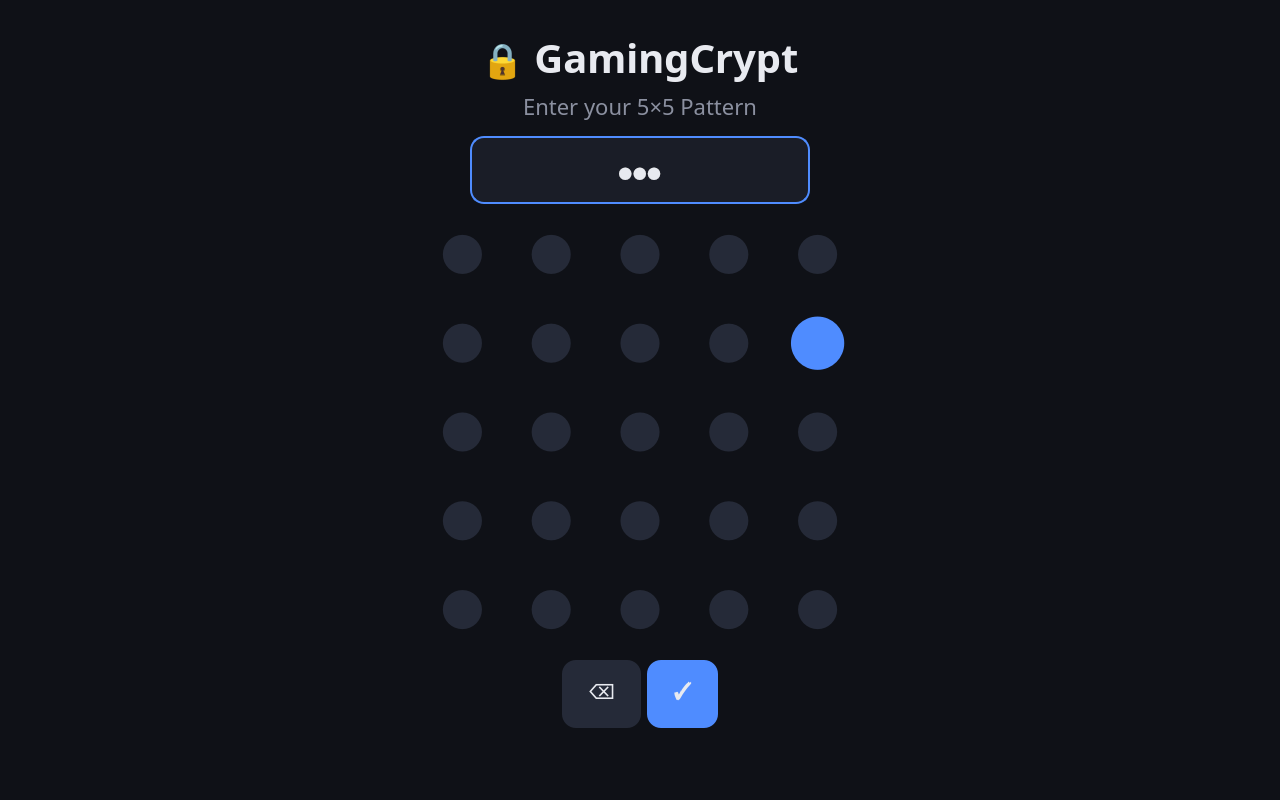
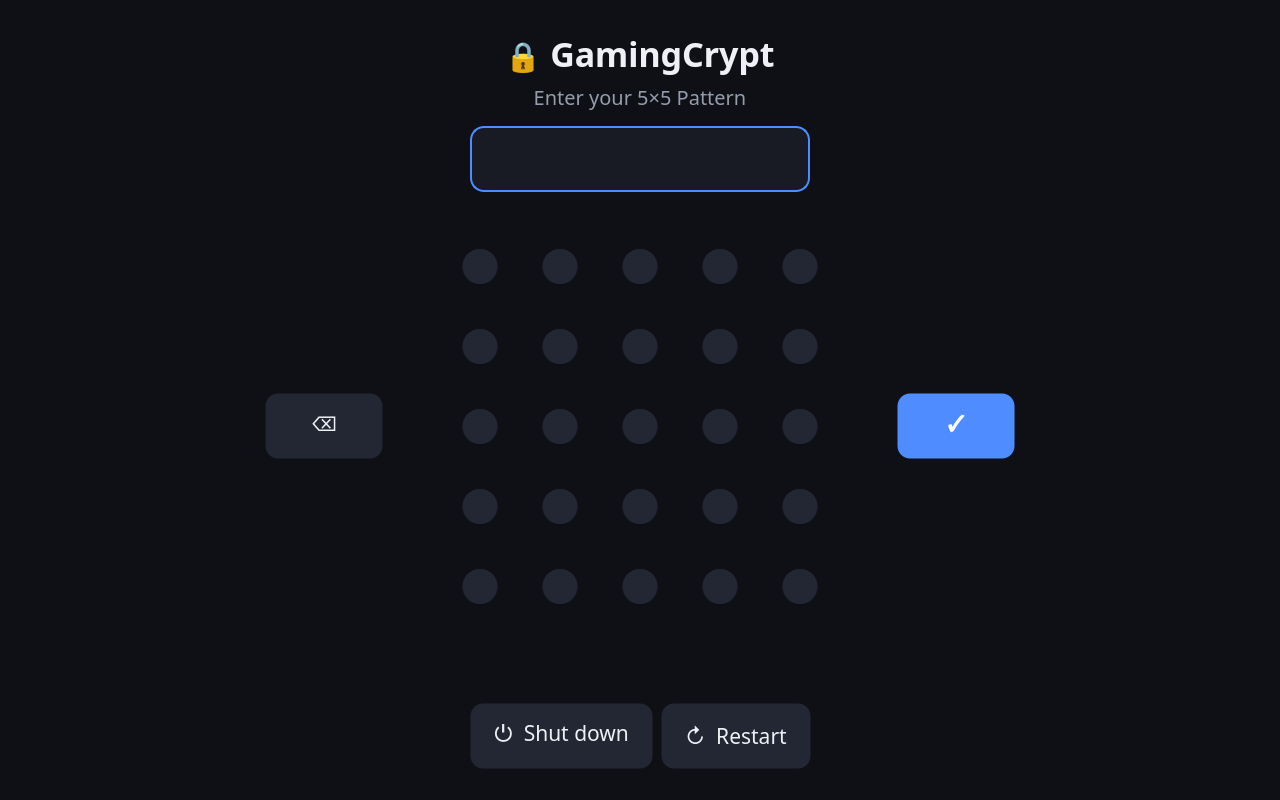
README: new screenshots of every page (dark and light theme, made with docs/screenshots.py) and the features as they are now (movies, shows, emulators, themes, controller navigation)

diff --git a/docs/screenshots.py b/docs/screenshots.py
@@ -1,0 +1,185 @@
+"""Renders the README screenshots (offscreen, with sample games, movies and shows).
+
+    .venv/bin/python docs/screenshots.py          # -> docs/screenshots/*.png
+"""
+
+from __future__ import annotations
+
+import copy
+import os
+import sys
+import tempfile
+import time
+from pathlib import Path
+
+os.environ["QT_QPA_PLATFORM"] = "offscreen"
+ROOT = Path(__file__).resolve().parent.parent
+sys.path.insert(0, str(ROOT))
+
+from PySide6.QtCore import QElapsedTimer  # noqa: E402
+from PySide6.QtWidgets import QApplication  # noqa: E402
+
+app = QApplication(sys.argv)
+
+from gamingcrypt.app import MainWindow  # noqa: E402
+from gamingcrypt.config import DEFAULTS  # noqa: E402
+from gamingcrypt.movies import library as movies  # noqa: E402
+from gamingcrypt.movies.library import MovieInfo  # noqa: E402
+from gamingcrypt.steam.models import SteamGame  # noqa: E402
+from gamingcrypt.ui import theme  # noqa: E402
+from gamingcrypt.ui.games_tab import GamesTab  # noqa: E402
+from gamingcrypt.ui.movies_tab import MoviesTab  # noqa: E402
+from gamingcrypt.ui.shows_tab import ShowsTab  # noqa: E402
+from tests.fakes import FakeService  # noqa: E402
+
+OUT = ROOT / "docs" / "screenshots"
+SIZE = (1280, 800)  # the handheld's screen
+
+MOVIES = [("Starfall", 2019, 128, "FSK 12", ["Science fiction"]), ("The Long Road", 2004, 112, "FSK 6", ["Drama"]),
+          ("Night Harbour", 2016, 97, "FSK 16", ["Thriller"]), ("Paper Moons", 2021, 104, "FSK 0", ["Family"]),
+          ("Iron Valley", 1998, 133, "FSK 16", ["Western"]), ("Quiet Signals", 2012, 121, "FSK 12", ["Mystery"]),
+          ("Blue Atlas", 2023, 141, "FSK 12", ["Adventure"]), ("Glass Garden", 2009, 99, "FSK 6", ["Comedy"])]
+GAMES = [SteamGame(1, "Hollow Peaks", installed=True, playtime_minutes=2700, last_played=1759600000),
+         SteamGame(2, "Neon Drift", installed=True, playtime_minutes=480, size_on_disk=8_000_000_000),
+         SteamGame(3, "Stellar Forge", installed=True, playtime_minutes=90),
+         SteamGame(4, "Ember Knights", installed=True, playtime_minutes=1600),
+         SteamGame(5, "Tidal Echoes", playtime_minutes=30), SteamGame(6, "Moss Kingdom", playtime_minutes=0)]
+
+
+class NoLookup:
+    def find(self, *a):
+        return None
+
+
+def sample_drive(base: Path) -> tuple[Path, Path, Path]:
+    plot = ("A crew of misfits sets out on a journey that changes everything they believed about home, "
+            "friendship and the stars above.")
+    for i, (title, year, minutes, fsk, genres) in enumerate(MOVIES):
+        path = base / "Movies" / f"{title} ({year}).mkv"
+        path.parent.mkdir(parents=True, exist_ok=True)
+        path.write_bytes(b"v")
+        movies.write_info(path.with_suffix(".nfo"), MovieInfo(
+            title=title, year=year, runtime=minutes, fsk=fsk, genres=genres, plot=plot, looked_up=1, wikidata="Q1",
+            directors=["Mara Lindqvist"], actors=[("Jonas Weber", "Captain Reyes"), ("Ana Duarte", "Lena")],
+            watched=i in (1, 4), playcount=int(i in (1, 4)), position=2400 if i == 2 else 0, total=5800))
+    for season in (1, 2):
+        for number in range(1, 7):
+            seen = season == 1 and number < 4
+            path = base / "Shows" / "Harbor Lights (2018)" / f"Season {season}" / f"Harbor Lights S0{season}E0{number}.mkv"
+            path.parent.mkdir(parents=True, exist_ok=True)
+            path.write_bytes(b"v")
+            movies.write_info(path.with_suffix(".nfo"), MovieInfo(
+                title=["Arrival", "The Keeper", "Low Tide", "Signals", "Undertow", "Homecoming"][number - 1],
+                runtime=48, aired=f"2018-0{season + 2}-1{number}", looked_up=1, watched=seen, playcount=int(seen),
+                plot="The lighthouse keeper finds a message that should not exist.", position=900 if
+                (season, number) == (1, 4) else 0, total=2880, last_played=5), "episodedetails")
+    movies.write_info(base / "Shows" / "Harbor Lights (2018)" / "tvshow.nfo", MovieInfo(
+        title="Harbor Lights", year=2018, end_year=2022, genres=["Drama", "Mystery"], tvmaze="1", looked_up=1,
+        plot="In a small coastal town, a lighthouse keeper uncovers secrets that bind its families together.",
+        actors=[("Ida Novak", "Keeper"), ("Tom Berg", "Sheriff")]), "tvshow")
+    for i in range(1, 4):
+        path = base / "Shows" / f"Night.Shift.S01E0{i}.mkv"
+        path.write_bytes(b"v")
+    movies.write_info(base / "Shows" / "Night Shift.tvshow.nfo", MovieInfo(title="Night Shift", year=2021, tvmaze="2",
+                                                                          genres=["Comedy"], looked_up=1), "tvshow")
+    emu = base / "Emulation"
+    for system, name in (("snes", "Super Space Quest.sfc"), ("gba", "Pocket Racer.gba"), ("psx", "Shadow Run.chd")):
+        (emu / "roms" / system).mkdir(parents=True, exist_ok=True)
+        (emu / "roms" / system / name).write_bytes(b"x")
+    return base / "Movies", base / "Shows", emu
+
+
+def pump(ms: int) -> None:
+    timer = QElapsedTimer()
+    timer.start()
+    while timer.elapsed() < ms:
+        app.processEvents()
+        time.sleep(0.005)
+
+
+def main() -> None:
+    OUT.mkdir(parents=True, exist_ok=True)
+    movies_root, shows_root, emu = sample_drive(Path(tempfile.mkdtemp()))
+    service = FakeService(games=GAMES)
+    pages = {}
+
+    def factory(cfg):
+        pages["Games"] = GamesTab(service, library_settings=cfg["libraries"], emulation_root=str(emu))
+        pages["Movies"] = MoviesTab(movies_root, lookup=NoLookup())
+        pages["Shows"] = ShowsTab(shows_root, lookup=NoLookup())
+        return dict(pages)
+
+    for name in ("dark", "light"):
+        theme.apply(name, app)
+        window = MainWindow(copy.deepcopy(DEFAULTS), lambda c: None, page_factory=factory)
+        window.windowed, window.update_check_enabled, window.welcome_enabled = True, False, False
+        window.resize(*SIZE)
+        window.show()
+        window.show_shell()
+        pump(800)
+        shell = window.shell
+        games = pages["Games"]
+        games.games.update({g.appid: g for g in GAMES})
+
+        def shot(file: str) -> None:
+            pump(400)
+            window.grab().save(str(OUT / f"{file}.png"))
+
+        suffix = "" if name == "dark" else "-light"
+        shot(f"games{suffix}")
+        if name == "light":
+            shell.show_tab("Settings")
+            shot("settings-light")
+            window.close()
+            break
+        games.open_steam()
+        shot("steam")
+        games.back()
+        games.open_game(1)
+        shot("detail")
+        games.back()
+        shell.show_tab("Movies")
+        shot("movies")
+        movie_tab = pages["Movies"]
+        movie_tab.open_movie(next(m for m in movie_tab.items if m.title == "Night Harbour"))
+        shot("movie")
+        movie_tab.back()
+        shell.show_tab("Shows")
+        shot("shows")
+        show_tab = pages["Shows"]
+        show_tab.open_show(next(s for s in show_tab.items if s.title == "Harbor Lights"))
+        shot("show")
+        show_tab.currentWidget().scroll.verticalScrollBar().setValue(520)
+        shot("episodes")
+        show_tab.back()
+        shell.show_tab("Settings")
+        shot("settings")
+        shell.show_tab("Games")
+        window.toggle_quick_menu()
+        shot("quickmenu")
+        window.quick_menu.close_menu()
+        window.close()
+
+    theme.apply("dark", app)
+    from gamingcrypt.ui.auth_setup import AuthSetupWizard
+    from gamingcrypt.ui.lock_screen import LockScreen
+    from tests.test_lock_screen import FakeUnlocker
+
+    for method, file in (("password", "lock"), ("grid5", "grid5"), ("pattern", "pattern")):
+        screen = LockScreen(FakeUnlocker(), method)
+        screen.resize(*SIZE)
+        screen.show()
+        pump(400)
+        screen.grab().save(str(OUT / f"{file}.png"))
+        screen.close()
+    config = copy.deepcopy(DEFAULTS)
+    wizard = AuthSetupWizard(config, lambda c: None, lambda c: FakeUnlocker(), first_start=True)
+    wizard.resize(*SIZE)
+    wizard.show()
+    pump(400)
+    wizard.grab().save(str(OUT / "create.png"))
+    print("screenshots in", OUT)
+
+
+if __name__ == "__main__":
+    main()

diff --git a/README.md b/README.md
@@ -5,17 +5,27 @@ A fullscreen **touch UI for Linux gaming handhelds** whose games live on a
 password or swipe pattern**, and then you land in a console-style launcher with
 your Steam library.
 
-| Lock screen | 5×5 Pattern | Swipe pattern setup |
+| Games | Steam library | Game page |
 |---|---|---|
-| ![lock](docs/screenshots/lock.png) | ![grid5](docs/screenshots/grid5.png) | ![pattern](docs/screenshots/pattern.png) |
+| ![games](docs/screenshots/games.png) | ![steam](docs/screenshots/steam.png) | ![detail](docs/screenshots/detail.png) |
 
-| New container | Games | |
+| Movies | Movie page | Light theme |
 |---|---|---|
-| ![create](docs/screenshots/create.png) | ![games](docs/screenshots/games.png) | |
+| ![movies](docs/screenshots/movies.png) | ![movie](docs/screenshots/movie.png) | ![light](docs/screenshots/games-light.png) |
 
-| Steam library | Game page | Settings |
+| Shows | Show page | Episodes |
 |---|---|---|
-| ![steam](docs/screenshots/steam.png) | ![detail](docs/screenshots/detail.png) | ![settings](docs/screenshots/settings.png) |
+| ![shows](docs/screenshots/shows.png) | ![show](docs/screenshots/show.png) | ![episodes](docs/screenshots/episodes.png) |
+
+| Quick menu | Settings | Settings (light) |
+|---|---|---|
+| ![quickmenu](docs/screenshots/quickmenu.png) | ![settings](docs/screenshots/settings.png) | ![settings-light](docs/screenshots/settings-light.png) |
+
+| Lock screen | 5×5 Pattern | Swipe pattern | First start |
+|---|---|---|---|
+| ![lock](docs/screenshots/lock.png) | ![grid5](docs/screenshots/grid5.png) | ![pattern](docs/screenshots/pattern.png) | ![create](docs/screenshots/create.png) |
+
+The screenshots are made with `.venv/bin/python docs/screenshots.py` (sample data, no device needed).
 
 ## Features
 
@@ -24,26 +34,33 @@ your Steam library.
 - **First-start setup**: pick an existing volume, or **create a new encrypted container**, then choose your unlock method
 - **Key derivation**: every secret is hardened with scrypt and a per-volume salt before it reaches VeraCrypt
 - **Settings → Reset authentication method**: switch between PIN, password, swipe pattern and 5×5 pattern at any time
-- **Tabs**: Games, Downloads, Movies, Shows, Music, Pictures, Settings (the media tabs show *coming soon*)
-- **Power menu** (⏻): shut down, restart, or desktop mode (quit GamingCrypt)
+- **Dark and light theme** (*Settings → Device → Appearance*), switched at once; the same clean design on every page
+- **Browse with the controller like on a console**: left / right stay in their row (a grid row goes on with the
+  next one), up / down keep the column, tab rows are entered at the open tab, B goes back - and everything works by touch too
+- **Tabs**: Games, Downloads, Movies, Shows, Music, Pictures, Settings (Music and Pictures show *coming soon*)
+- **Power menu** (⏻): lock, shut down, restart, restart into another system, desktop mode
 - **Battery** next to ⏻: level, ⚡ when on external power, red when low
 - **Downloads tab**: every queued, running and paused Steam download with progress and a count in the tab bar; reorder with ▲/▼ (the top one downloads), cancel with ✕ (deletes what was downloaded)
 - **Device settings**: resolution, refresh rate, brightness, max power consumption (TDP), audio output and input device and their volume
 - **Controller**: calibrate the analog sticks and triggers and map every button; games get a virtual Xbox controller with your setup
-- **Browse with the controller**: the whole UI works with D-pad / stick, A, B, LB/RB, as well as with touch
 - **Games**
-  - Installed games below the libraries, searchable
-  - **Recently played** library: your last 10 played games
-  - **Steam** card with your whole library (installed, plus every owned game when a Web API key is set)
+  - **Continue playing** at the top, installed games below the libraries, searchable
+  - Libraries: **Favorites**, **Steam** (your whole library), **Recently played** and one per **emulated system**
   - Sort by **name, release date, playtime, price or latest update**, ascending or descending
-  - Search the whole Steam library (installed or not)
   - **🎮 Big Picture** opens Steam's console UI (e.g. for Workshop mods); GamingCrypt steps aside and comes back when you close it
-  - The title and sort bar fold away while you scroll down and come back when you scroll up (also on Games, Store and Downloads)
-  - Game page: **Play** or **Download**, plus **Options → Uninstall** (tap twice to confirm, no Steam popup)
-  - Game size: size on disk for installed games, the store's storage requirement for the others
-  - **Options → Proton**: pick the Proton version per game (official builds and custom ones like GE-Proton), or *Default*
-  - **Downloads without opening Steam**: owned games are queued straight onto the encrypted drive while Steam runs minimised, with progress shown in GamingCrypt
+  - Game page: **Play** or **Download**, plus **Options**: Proton version, power and FPS limit, **Uninstall**
+  - **Downloads without opening Steam**: owned games are queued straight onto the encrypted drive while Steam runs minimised
   - **Store**: search the Steam store, install free or owned games, or open a paid game's purchase page in Steam
+- **Emulated games** (RetroArch, Eden for Switch): NES to PS2, covers from libretro-thumbnails, cores downloaded
+  automatically, controls per system on a picture of its controller, save states, speed and disc switching in the
+  quick menu; add ROMs and BIOS files over Wi-Fi (browser with QR code, or a network share)
+- **Movies**: every video in `<drive>/Movies`, with cover, description, cast, FSK rating and length from Wikidata /
+  Wikipedia (saved next to the movie as `.jpg` and Kodi `.nfo`); search and filters; plays full screen in mpv with
+  controller and YouTube-like touch controls (double tap to skip, hold for 2x, speed menu); resume where you stopped,
+  watched marks, remove with everything that belongs to it, upload over Wi-Fi
+- **Shows**: one card per show, not per episode - episodes are recognised by their names (`S01E02`, `1x02`,
+  season folders) and grouped; show and episode info, pictures and cast from TVmaze; seasons, **Continue** with the
+  next episode, the next one starts by itself, watched marks per episode and show
 - Built for touch: big targets, kinetic flick scrolling, an on-screen keyboard and double-tap confirmation for destructive actions
 
 ## Install
